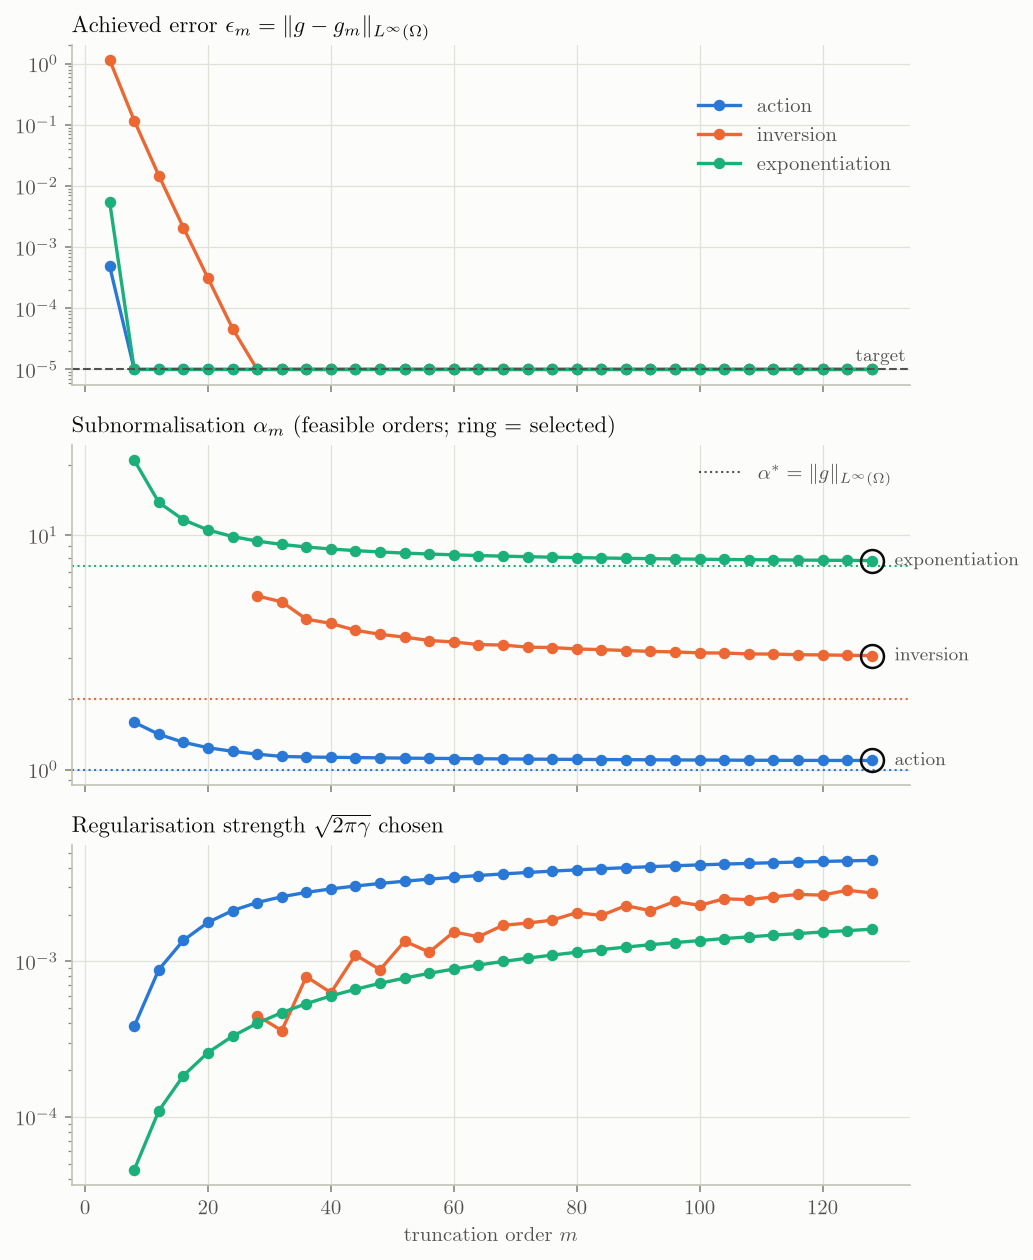
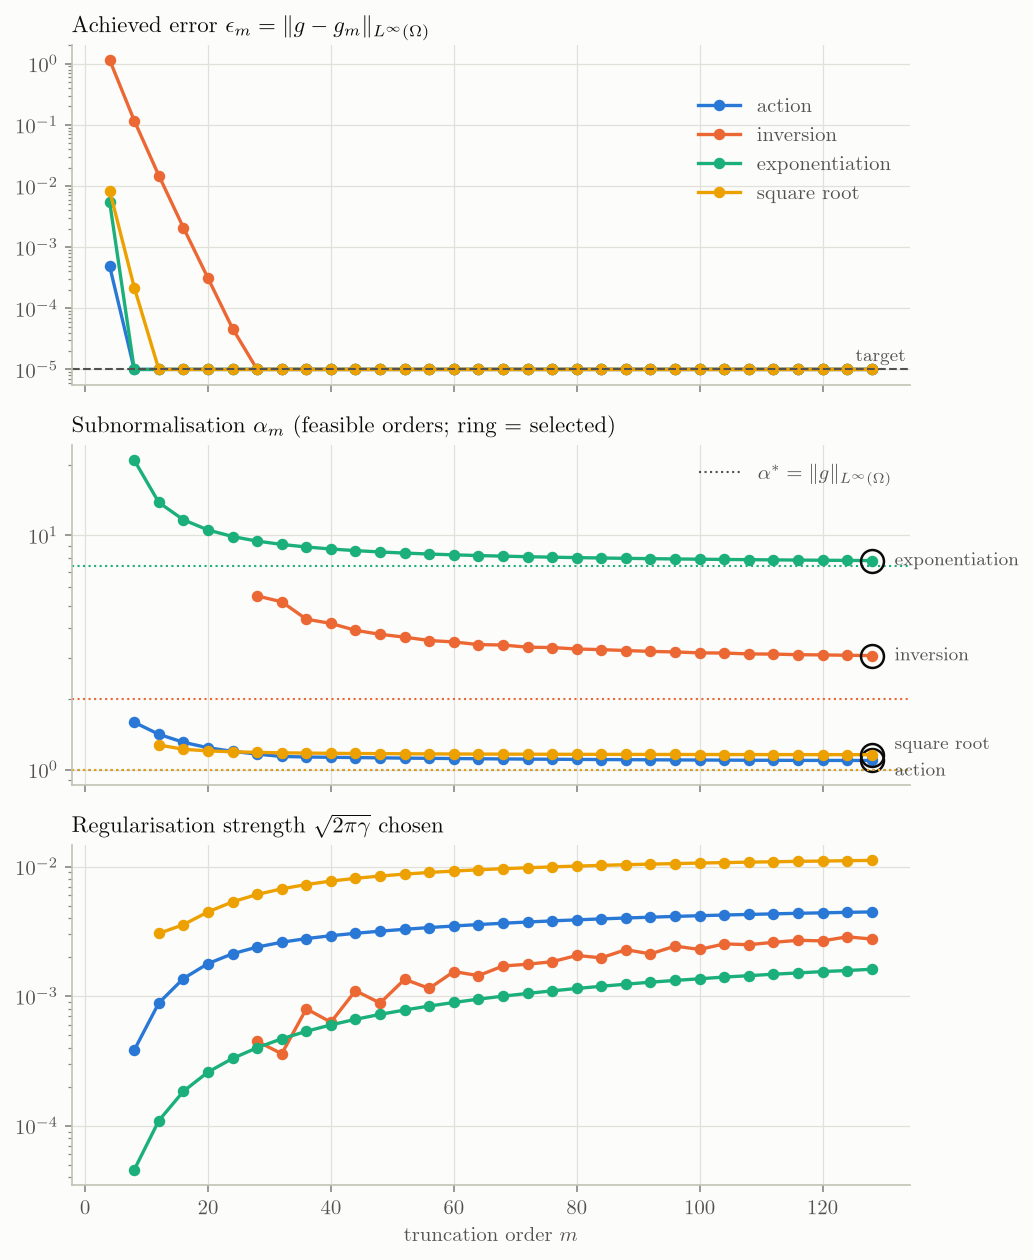
Add the square root to the plotting examples
- Plot 01 and 05 include sqrt on [0.15, 1] (the paper's example), with
  readable display names and separated end labels.
- New plot 06: shortest feasible m and subnormalisation for sqrt against
  the condition number, with the paper's kappa^(1/4) rate for reference.

diff --git a/examples/plots/06_sqrt_vs_kappa.py b/examples/plots/06_sqrt_vs_kappa.py
@@ -1,0 +1,76 @@
+"""
+Cost of the square root versus condition number
+===============================================
+
+For eigenvalues in [1/kappa, 1], fit sqrt(H) (shifted, with the default
+eta_def and r_sqrt = kappa^(-1/2)) and plot the shortest series that meets
+the target and the smallest subnormalisation alpha_m over the sweep as
+kappa grows.  ||sqrt(H)|| = 1 throughout, so the
+lower bound alpha* = 1 (dotted) is constant.  Unlike inversion, sqrt is
+concave and the periodic closure narrows with kappa, so the paper predicts
+alpha_m = O(kappa^(1/4)) for w = 1 (dashed, through the first point).
+Needs matplotlib.
+
+Run with:
+    python examples/plots/06_sqrt_vs_kappa.py [OUTPUT_DIR]
+"""
+
+import matplotlib.pyplot as plt
+import numpy as np
+from matplotlib.ticker import NullFormatter
+
+import _style
+from felcu import solve_fe_coefficients
+
+TARGET = 1e-6
+KAPPAS = np.geomspace(1.5, 50, 10)
+color = _style.PROBLEM_COLORS["square_root"]
+
+rows = []
+for kappa in KAPPAS:
+    r = solve_fe_coefficients(
+        "square_root",
+        shifted=True,
+        sigma_min=1.0 / kappa,
+        sigma_max=1.0,
+        target_error=TARGET,
+        m_values=range(8, 257, 8),
+    )
+    m_min = min((c.m for c in r.all_results if c.converged), default=0)
+    rows.append((kappa, m_min, r.alpha, _style.alpha_floor(r), r.converged))
+
+kappa, m, alpha, alpha_star, conv = map(np.array, zip(*rows))
+ok = conv.astype(bool)
+
+_style.apply()
+fig, (ax_m, ax_alpha) = plt.subplots(1, 2, figsize=(10, 4))
+ax_m.loglog(kappa[ok], m[ok], marker="o", color=color)
+_style.label_end(ax_m, kappa[ok], m[ok], r"$\sqrt{\mathcal{H}}$")
+ax_m.set_title(r"Shortest feasible order $m$  ($\epsilon_{\mathrm{t}} = 10^{-6}$)")
+ax_alpha.loglog(kappa, alpha_star, color=_style.INK_2, linewidth=1, linestyle=":", label=_style.ALPHA_FLOOR_LABEL)
+first = np.argmax(ok)
+ax_alpha.loglog(
+    kappa,
+    alpha[first] * (kappa / kappa[first]) ** 0.25,
+    color=_style.INK_2,
+    linewidth=1,
+    linestyle="--",
+    label=r"$\propto \kappa^{1/4}$",
+)
+ax_alpha.loglog(kappa[ok], alpha[ok], marker="o", color=color, label=r"$\alpha_m$")
+_style.label_end(ax_alpha, kappa[ok], alpha[ok], r"$\sqrt{\mathcal{H}}$")
+ax_alpha.legend(loc="upper left")
+ax_alpha.set_title(r"Subnormalisation $\alpha_m$")
+for ax in (ax_m, ax_alpha):
+    ax.set_xlabel(r"condition number $\kappa$")
+    ax.set_xticks([2, 5, 10, 20, 50], labels=["$2$", "$5$", "$10$", "$20$", "$50$"])
+    ax.xaxis.set_minor_formatter(NullFormatter())
+fig.tight_layout()
+
+print(f"{'kappa':>7}  {'m_min':>5}  {'alpha':>9}  {'alpha*':>9}  converged")
+for row in rows:
+    print(f"{row[0]:>7.2f}  {row[1]:>5}  {row[2]:>9.3f}  {row[3]:>9.3f}  {row[4]}")
+if not ok.all():
+    print("\n(non-converged points are left out of the plot: increase m_values to reach them)")
+
+_style.finish(fig, "06_sqrt_vs_kappa")

diff --git a/examples/plots/01_error_alpha_vs_m.py b/examples/plots/01_error_alpha_vs_m.py
@@ -26,10 +26,13 @@ from felcu import solve_fe_coefficients
 
 TARGET = 1e-5
 M_VALUES = range(4, 129, 4)
+# Vertical label nudges (points) for the action and square-root lines, which end close together.
+LABEL_DY = {"action": -5, "square_root": 5}
 PROBLEMS = [
     ("action", dict(sigma_min=-1.0, sigma_max=1.0)),
     ("inversion", dict(sigma_min=0.5, sigma_max=3.0)),
     ("exponentiation", dict(sigma_min=0.1, sigma_max=2.0)),
+    ("square_root", dict(shifted=True, sigma_min=0.15, sigma_max=1.0)),
 ]
 
 _style.apply()
@@ -43,12 +46,18 @@ for problem, kwargs in PROBLEMS:
     alpha_star = _style.alpha_floor(result)
 
     ax_err.semilogy(
-        [c.m for c in cands], [c.achieved_linf_error for c in cands], marker="o", color=color, label=problem
+        [c.m for c in cands],
+        [c.achieved_linf_error for c in cands],
+        marker="o",
+        color=color,
+        label=_style.PROBLEM_LABELS.get(problem, problem),
     )
     ms, alphas = [c.m for c in feasible], [c.alpha for c in feasible]
     _style.ref_line(ax_alpha, alpha_star, color=color)
     ax_alpha.semilogy(ms, alphas, marker="o", color=color)
-    _style.label_end(ax_alpha, ms, alphas, problem, gap=11)
+    _style.label_end(
+        ax_alpha, ms, alphas, _style.PROBLEM_LABELS.get(problem, problem), gap=11, dy=LABEL_DY.get(problem, 0)
+    )
     ax_alpha.plot(
         result.m,
         result.alpha,

diff --git a/examples/plots/_style.py b/examples/plots/_style.py
@@ -30,10 +30,13 @@ GRID = "#e1e0d9"
 AXIS = "#c3c2b7"
 
 # One fixed colour per problem, the same in every figure
+PROBLEM_LABELS = {"square_root": "square root"}  # display names where the API name has an underscore
+
 PROBLEM_COLORS = {
     "action": "#2a78d6",
     "inversion": "#eb6834",
     "exponentiation": "#1baf7a",
+    "square_root": "#eda100",  # low contrast on SURFACE: always direct-label it
 }
 
 # Single-hue blue steps, light to dark
@@ -111,11 +114,14 @@ def alpha_floor(result) -> float:
 ALPHA_FLOOR_LABEL = r"$\alpha^\ast = \|g\|_{L^\infty(\Omega)}$"
 
 
-def label_end(ax, x, y, text: str, at: str = "end", gap: float = 5) -> None:
-    """Direct-label a line at its last (or first) point, in secondary ink."""
+def label_end(ax, x, y, text: str, at: str = "end", gap: float = 5, dy: float = 0) -> None:
+    """Direct-label a line at its last (or first) point, in secondary ink.
+
+    *dy* shifts the label vertically (in points) to separate close lines.
+    """
     i, dx, ha = (-1, gap, "left") if at == "end" else (0, -gap, "right")
     ax.annotate(
-        text, (x[i], y[i]), xytext=(dx, 0), textcoords="offset points", color=INK_2, va="center", ha=ha, fontsize=9
+        text, (x[i], y[i]), xytext=(dx, dy), textcoords="offset points", color=INK_2, va="center", ha=ha, fontsize=9
     )
 
 

diff --git a/examples/plots/05_pointwise_error.py b/examples/plots/05_pointwise_error.py
@@ -26,10 +26,11 @@ TARGET = 1e-8
 CASES = [
     ("exponentiation", dict(sigma_min=0.1, sigma_max=2.0, m_values=range(4, 33, 2))),
     ("inversion", dict(sigma_min=0.5, sigma_max=3.0, m_values=range(4, 65, 4))),
+    ("square_root", dict(shifted=True, sigma_min=0.15, sigma_max=1.0, m_values=range(8, 129, 8))),
 ]
 
 _style.apply()
-fig, axes = plt.subplots(2, 2, figsize=(11, 6.5), sharex=True)
+fig, axes = plt.subplots(2, len(CASES), figsize=(5.5 * len(CASES), 6.5), sharex=True)
 x_full = np.linspace(-np.pi, np.pi, 2001)
 
 for col, (problem, kwargs) in enumerate(CASES):
@@ -55,7 +56,7 @@ for col, (problem, kwargs) in enumerate(CASES):
         ax_err.semilogy(xs, err, color=color)
 
     _style.target_line(ax_err, TARGET)
-    ax_fit.set_title(f"{problem}  ($m = {r.m}$; shaded = not fitted)")
+    ax_fit.set_title(f"{_style.PROBLEM_LABELS.get(problem, problem)}  ($m = {r.m}$; shaded = not fitted)")
     ax_fit.legend(loc="upper left")
     ax_err.set_title(r"pointwise error $|g(x) - g_m(x)|$ on the fitted set $\Omega$")
     ax_err.set_xlabel(r"scaled variable $x$")

diff --git a/docs/examples.md b/docs/examples.md
@@ -319,3 +319,23 @@ gap around the pole, where \(g_m\) stays bounded.  Bottom:
     ```python
     --8<-- "examples/plots/05_pointwise_error.py"
     ```
+
+### Cost of the square root versus condition number
+
+For eigenvalues in \([\kappa^{-1}, 1]\), fit \(\sqrt{\mathcal H}\) (shifted,
+with the default \(\eta_{\rm def}\) and \(r_{\rm sqrt} = \kappa^{-1/2}\)) and
+plot the shortest series that meets the target and the smallest
+subnormalisation \(\alpha_m\) over the sweep as \(\kappa\) grows.
+\(\|\sqrt{\mathcal H}\| = 1\) throughout, so the lower bound
+\(\alpha^\ast = 1\) (dotted) is constant.  Unlike inversion, \(\sqrt x\) is
+concave and the periodic closure narrows with \(\kappa\), so the paper
+predicts \(\alpha_m = O(\kappa^{1/4})\) for \(w = 1\) (dashed); over this
+range the growth stays below that rate.
+
+![Cost of the square root versus condition number](images/plots/06_sqrt_vs_kappa.png)
+
+??? example "Code: examples/plots/06_sqrt_vs_kappa.py"
+
+    ```python
+    --8<-- "examples/plots/06_sqrt_vs_kappa.py"
+    ```
